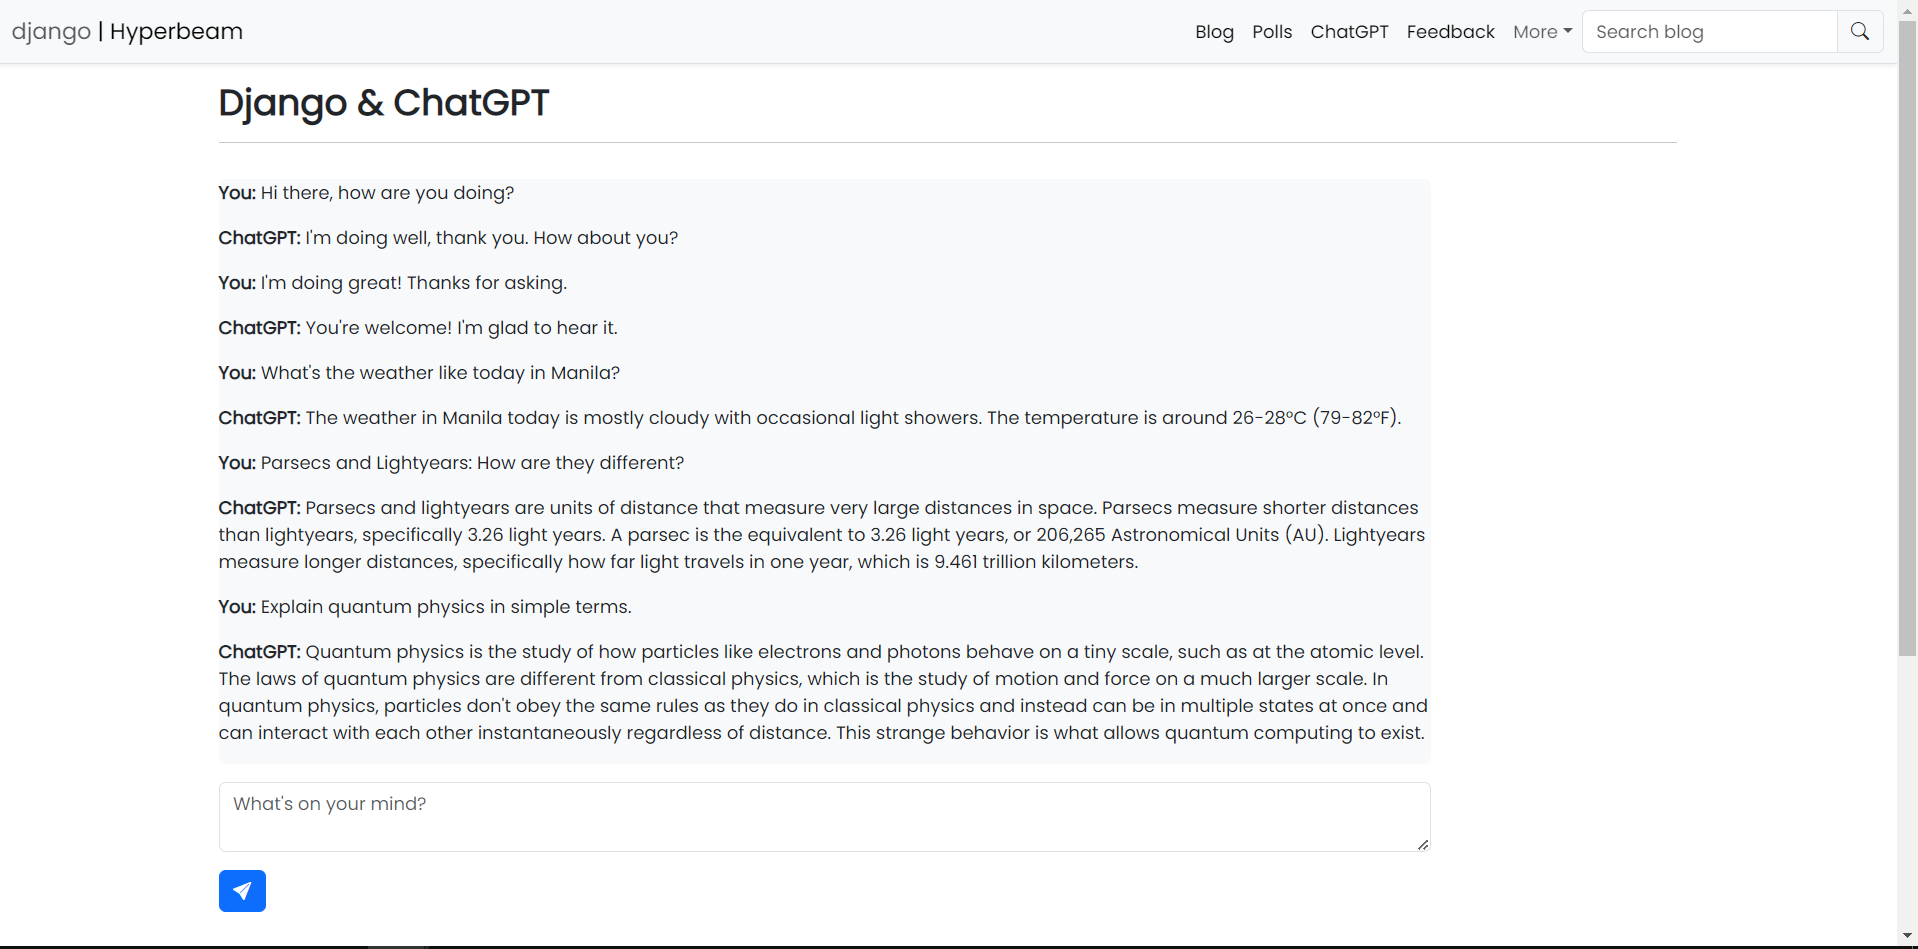
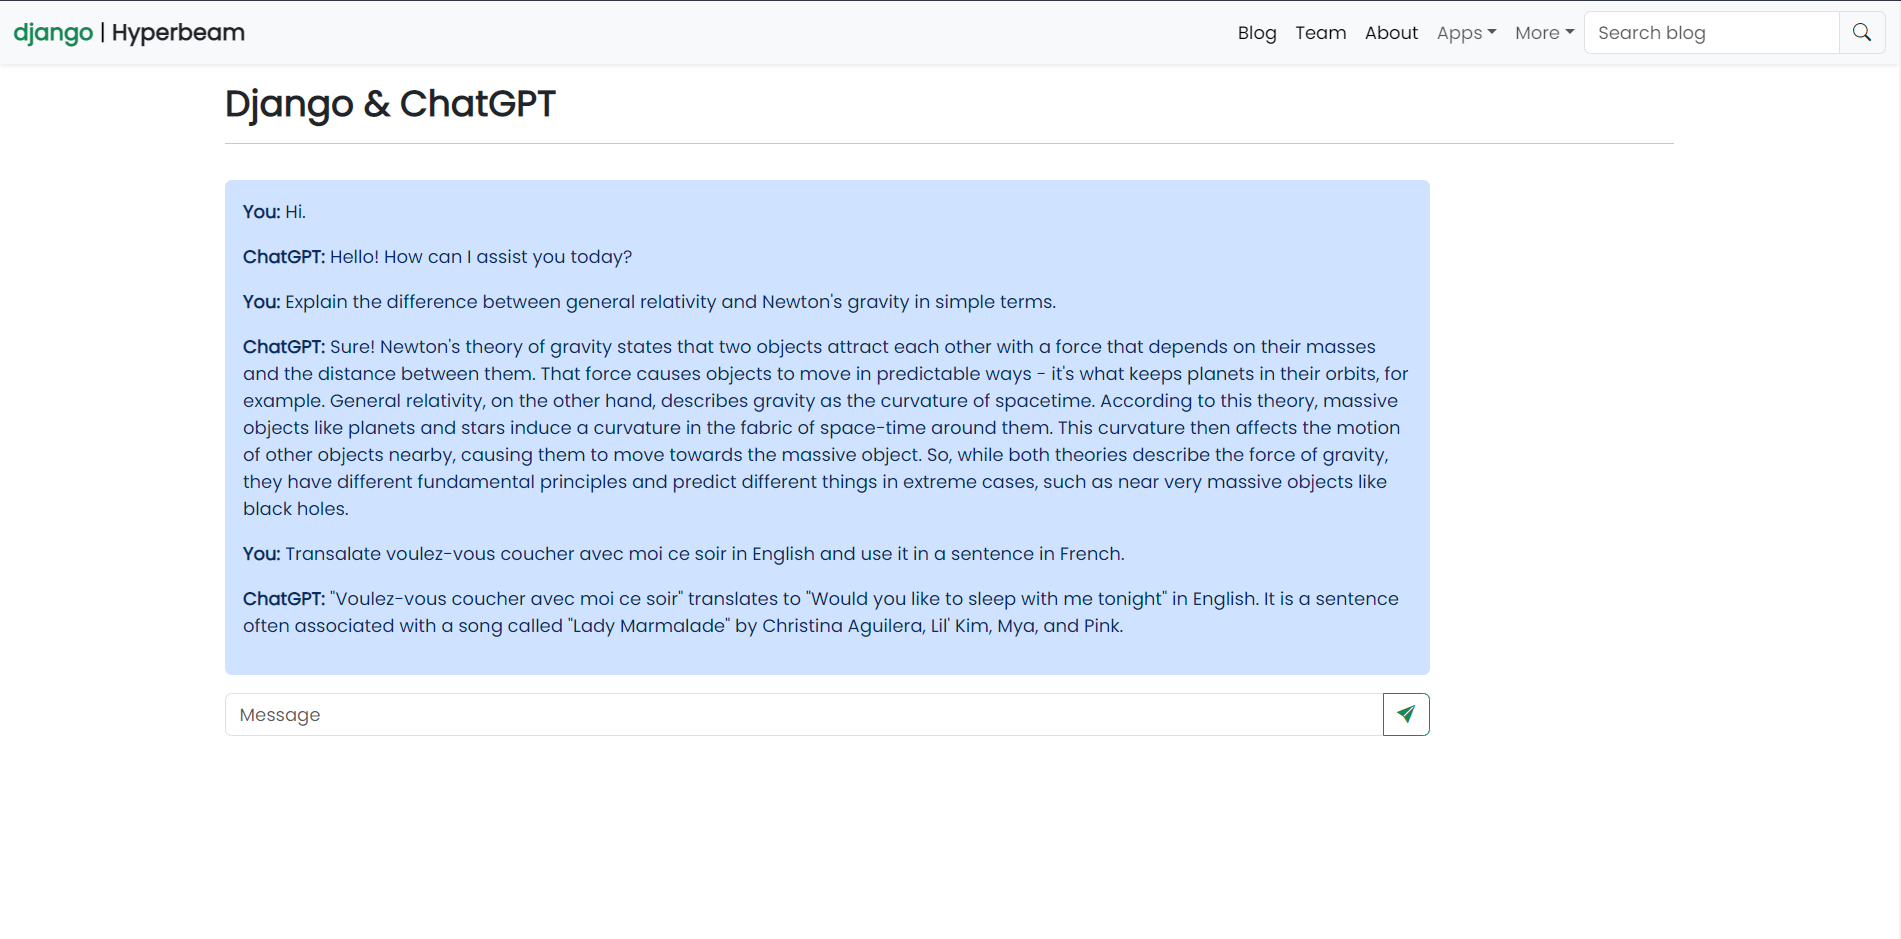
upg: gpt-3.5-turbo

diff --git a/templates/chat/chat.html b/templates/chat/chat.html
@@ -18,20 +18,18 @@
                 <div class="alert alert-primary border-0 mb-3">
                     <div id="chat-messages"></div>
                 </div>
-                <form id="chat-form" method="POST">
+
+                <form class="w-100 me-3" id="chat-form" method="POST">
                     {% csrf_token %}
-        
-                    <div>
-                        <textarea name="" class="form-control" placeholder="Message"
-                            id="chat-input"></textarea>
+                    <div class="col-auto">
+                    <div class="input-group">
+                        <input class="form-control form-control-md" placeholder="Message" id="chat-input" aria-label="chat">
+                        <button class="btn btn-outline-success" type="submit"><i class="bi bi-send-fill"></i></button>
+                    </div>
+            
                     </div>
 
-
-                    <div class="col-auto mt-3">
-                        <button type="submit" class="btn btn-primary"><i class="bi bi-send-fill"></i></button>
-                    </div>
-
-                </form>
+                  </form>
             </div>
         </div>
     </div>

diff --git a/templates/includes/navigation.html b/templates/includes/navigation.html
@@ -38,7 +38,7 @@
         </ul>
 
         <!-- Search -->
-        <form class="d-flex" role="search" action="{% url 'blog:search' %}" method="get" role="search">
+        <form class="d-flex" role="search" action="{% url 'blog:search' %}" method="get">
             <div class="input-group">
               <input class="form-control mr-3" type="search" name="q" placeholder="Search blog" aria-label="Search">
               <span class="input-group-text"><i class="bi bi-search"></i></span>

diff --git a/apps/chat/gpt.py b/apps/chat/gpt.py
@@ -1,34 +1,35 @@
 import os
 import sys
-from dotenv import load_dotenv
 import openai
-load_dotenv('./.env')
 import textwrap
 
-openai.api_key = os.environ['OPENAI_API_KEY']
+openai.api_key = os.getenv('OPENAI_API_KEY')
+
+MODEL = "gpt-3.5-turbo"
+
+messages = [{"role": "system", "content": "You are a friendly and helpful assistant."}]
+
+# For sarcastic responses:
+# messages = [{"role": "system", "content": "You are sarcastic assistant that reluctantly answers questions with sarcastic responses."}]
 
 
 def generate_response(prompt):
-    response = openai.Completion.create(
-        model="text-davinci-003",
-        prompt=prompt,
-        temperature=0.9,
+    messages.append(
+        {"role": "user", "content": prompt}
+    )
+    response = openai.ChatCompletion.create(
+        model=MODEL,
+        messages = messages,
         max_tokens=300,
-        n=1,
-        top_p=1,
-        stop=None,
-        frequency_penalty=0.0,
-        presence_penalty=0.6,
     )
 
-    message = response.choices[0].text.strip() # type: ignore
+    message = response['choices'][0]['message']['content']
     message = textwrap.fill(message, width=60)
     numbered_response = ""
     lines = message.split("\n")
     for i, line in enumerate(lines):
         numbered_response += str(i+1) + ". " + line + "\n"
     return message
-    # return response.choices[0].text.strip()
 
 
 def chat_prompts():
@@ -40,7 +41,6 @@ def chat_prompts():
             sys.exit()
         else:
             prompt = (f"User: {user_input} \nChatGPT: ")
-            #prompt = f"User: {user_input}\nGPT3.5 Turbo:"
             response = generate_response(prompt)
             print("\nChatGPT:", response)
             print('')

diff --git a/README.md b/README.md
@@ -24,7 +24,7 @@ Basic applications ie., Blog, Poll outlined in the [Django documentation](https:
 - [Django 4.0 or later](https://www.djangoproject.com/download/)
 - [Git](https://git-scm.com/)
 - <details>
-    <summary>Your preferred web browser</summary>
+    <summary>Web browser</summary>
 
   - [Chrome](https://www.google.com/intl/en_ph/chrome/)
   - [Firefox](https://www.mozilla.org/en-US/firefox/new/)
@@ -117,5 +117,5 @@ _Pending contribution guide._
 [MIT License](./LICENSE)
 
 ---
-Check out my other [respository](https://github.com/kitimi88/python-minis#python-minis) for more python projects.
+Check out my other [respository](https://github.com/kitimi88?tab=repositories) for more python projects.
 
